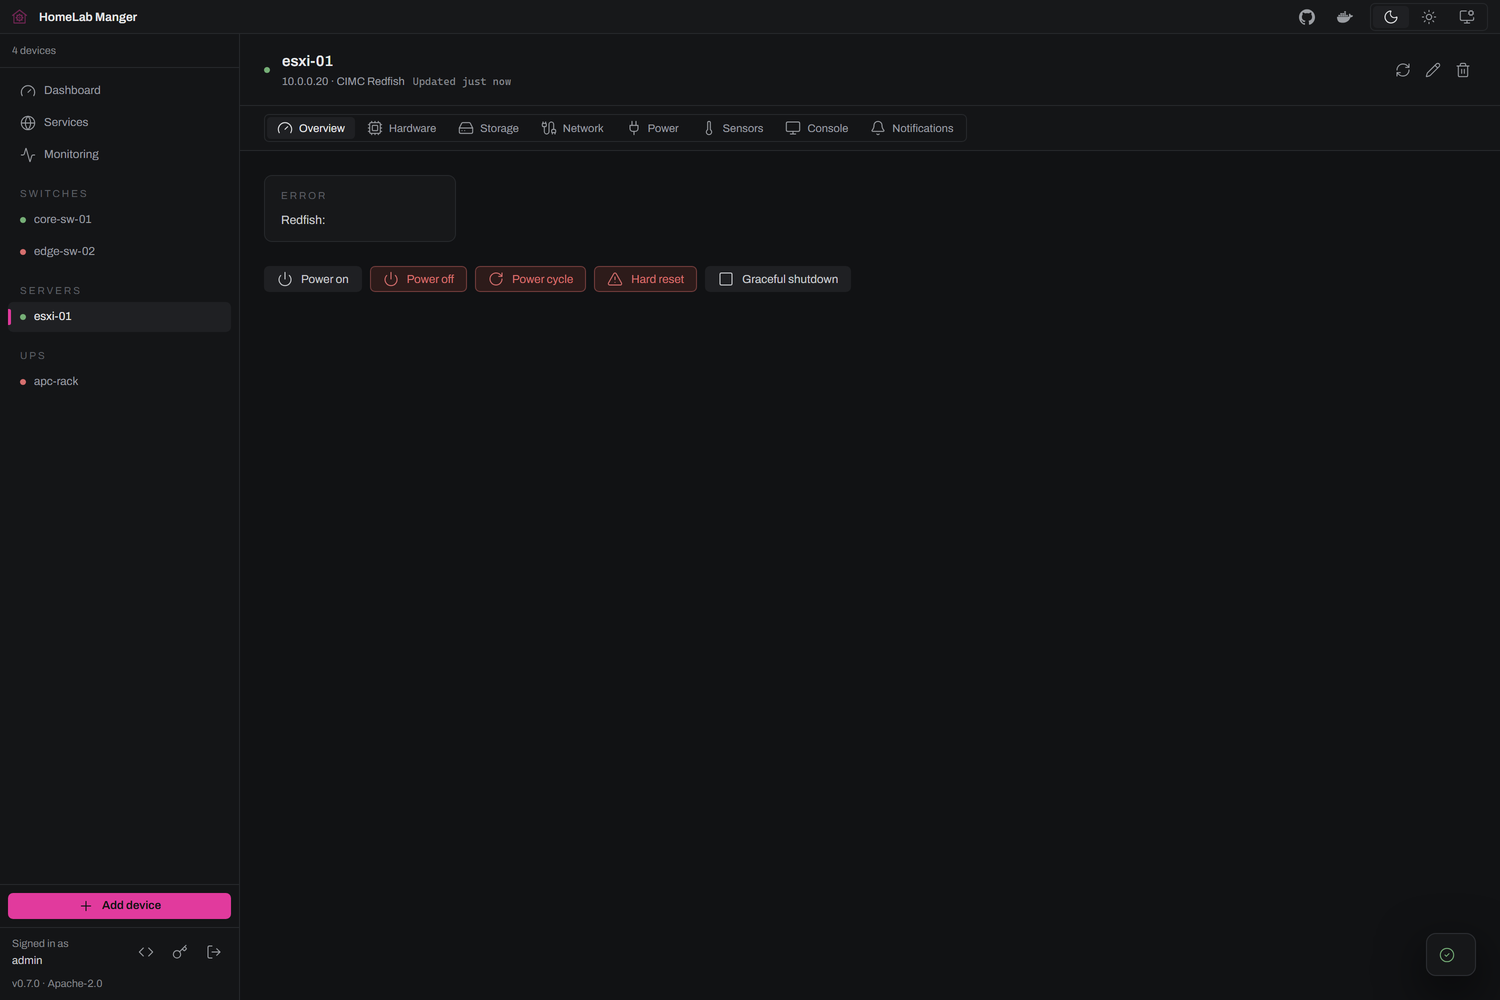
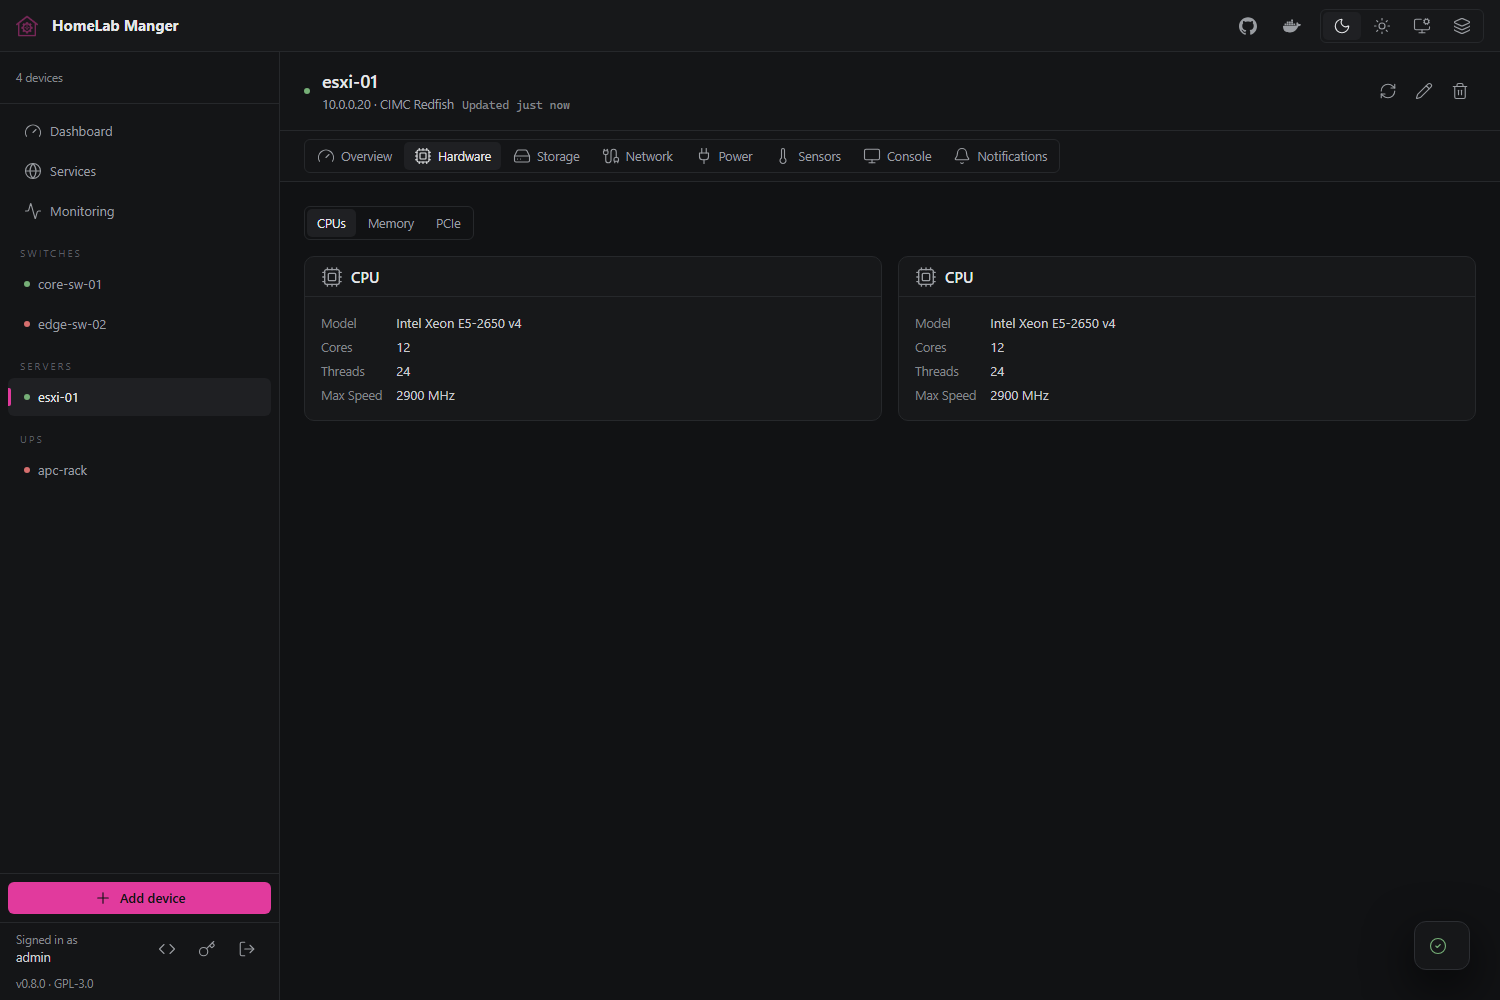
Generate the whole screenshot set from one command
§17.3 wants pictures generated by the app, 1400-1600px wide at 100% scale,
under 500KB. shots.py rendered at device_scale_factor=2, so every picture came
out 3000px and had to be downscaled by a hand step that lived nowhere, and the
five the README references had to be renamed by hand as well. It now renders at
1x and copies those five to their plain names, so what the script writes is what
gets committed. The rest of the set - every screen in both themes - is written
beside them and gitignored, as the pair of eyes before a release.

Two pictures were not of the app working. server.png showed an error card on a
tab with nothing on it; services.png was an empty state under two "not
configured yet" warnings, because the Services page reads its content live from
NPM and Portainer and the fixture could reach neither. docs/demo_stubs.py
stands in for both, so the page renders services grouped by Docker host with
their container chips and the import section beside them. server.png is now the
Hardware tab, and its alt text follows it in README.md and docs/DOCKERHUB.md.

The stub has to be a ThreadingHTTPServer speaking HTTP/1.1: the page fans out
to the proxy-host list and every Portainer environment at once, and on a
single-threaded 1.0 server httpx intermittently picked a just-closed connection
and the page rendered "Could not list NPM proxy hosts" in about half the runs.

The fixture also emitted poe portIndex as an int while both adapters emit a
[…]

diff --git a/docs/demo_stubs.py b/docs/demo_stubs.py
@@ -1,0 +1,162 @@
+"""Stand-in Nginx Proxy Manager and Portainer, for the screenshot fixture.
+
+The Services page is the one screen that cannot be photographed from the
+database alone: the "In NPM - not managed here" section and the Docker chips on
+each row are read live from those two tools, and with neither reachable the
+page renders an empty state and a pair of "not configured yet" warnings. A
+picture of that is a picture of an install nobody has finished, which §17.3 of
+the style guide asks us not to ship.
+
+So `docs/shots.py` starts this, and `docs/seed-demo.py` points the npm and
+portainer integration rows at it. It answers only the handful of reads the
+Services page makes, on one port, because the two APIs do not collide:
+
+    NPM        POST /api/tokens              -> a bearer token
+               GET  /api/nginx/proxy-hosts   -> the proxy hosts
+    Portainer  GET  /api/endpoints           -> the environments
+               GET  /api/endpoints/{id}/docker/containers/json
+
+Nothing here is ever written to, and nothing here runs outside the fixture.
+Keep the shapes in step with what services_npm.py and services_portainer.py
+read; a field they need and this does not return shows up as an empty column
+in the picture rather than as an error.
+"""
+import json
+import threading
+from http.server import BaseHTTPRequestHandler, ThreadingHTTPServer
+
+PORT = 8212
+BASE_URL = f"http://127.0.0.1:{PORT}"
+
+# Two of these (jellyfin, paperless) are also seeded as managed services, so the
+# page can match them by proxy-host id; the rest are what the sync section
+# offers to import. `nzbget` is deliberately HTTP-only (certificate_id 0) so the
+# section shows a host without a certificate too.
+_PROXY_HOSTS = [
+    {"id": 11, "domain_names": ["jellyfin.example.net"], "forward_scheme": "http",
+     "forward_host": "10.0.0.41", "forward_port": 8096, "certificate_id": 31,
+     "enabled": True, "allow_websocket_upgrade": True, "block_exploits": True,
+     "caching_enabled": False, "ssl_forced": True, "http2_support": True,
+     "hsts_enabled": False, "hsts_subdomains": False},
+    {"id": 12, "domain_names": ["paperless.example.net"], "forward_scheme": "http",
+     "forward_host": "10.0.0.42", "forward_port": 8000, "certificate_id": 32,
+     "enabled": True, "allow_websocket_upgrade": True, "block_exploits": True,
+     "caching_enabled": False, "ssl_forced": True, "http2_support": True,
+     "hsts_enabled": False, "hsts_subdomains": False},
+    {"id": 13, "domain_names": ["grafana.example.net"], "forward_scheme": "http",
+     "forward_host": "10.0.0.43", "forward_port": 3000, "certificate_id": 33,
+     "enabled": True, "allow_websocket_upgrade": True, "block_exploits": True,
+     "caching_enabled": False, "ssl_forced": True, "http2_support": True,
+     "hsts_enabled": False, "hsts_subdomains": False},
+    {"id": 14, "domain_names": ["nzbget.example.net"], "forward_scheme": "http",
+     "forward_host": "10.0.0.44", "forward_port": 6789, "certificate_id": 0,
+     "enabled": True, "allow_websocket_upgrade": False, "block_exploits": True,
+     "caching_enabled": False, "ssl_forced": False, "http2_support": True,
+     "hsts_enabled": False, "hsts_subdomains": False},
+    {"id": 15, "domain_names": ["vaultwarden.example.net"], "forward_scheme": "http",
+     "forward_host": "10.0.0.45", "forward_port": 8080, "certificate_id": 35,
+     "enabled": True, "allow_websocket_upgrade": True, "block_exploits": True,
+     "caching_enabled": False, "ssl_forced": True, "http2_support": True,
+     "hsts_enabled": False, "hsts_subdomains": False},
+]
+
+# Two environments, because the real thing usually has more than one and the
+# host-IP-per-endpoint logic is worth showing. The agent endpoint's URL is what
+# services_portainer.endpoint_host_ip() reads the host IP out of.
+_ENDPOINTS = [
+    {"Id": 1, "Name": "docker-01", "URL": "unix:///var/run/docker.sock", "Status": 1},
+    {"Id": 2, "Name": "docker-02", "URL": "tcp://10.0.0.42:9001", "Status": 1},
+]
+
+_CONTAINERS = {
+    1: [
+        ("jellyfin", "running", 8096), ("grafana", "running", 3000),
+        ("nzbget", "running", 6789), ("watchtower", "running", None),
+    ],
+    2: [
+        ("paperless", "running", 8000), ("vaultwarden", "running", 8080),
+        ("redis", "running", None), ("watchtower", "exited", None),
+    ],
+}
+
+
+def _container(name: str, state: str, port: int | None, host_ip: str) -> dict:
+    return {
+        "Id": f"{abs(hash(name)) % (16 ** 12):012x}",
+        "Names": [f"/{name}"],
+        "Image": f"ghcr.io/demo/{name}:latest",
+        "State": state,
+        "Status": "Up 6 days" if state == "running" else "Exited (0) 2 days ago",
+        "Ports": ([{"IP": "0.0.0.0", "PrivatePort": port, "PublicPort": port,
+                    "Type": "tcp"}] if port else []),
+        "NetworkSettings": {"Networks": {"bridge": {"IPAddress": host_ip}}},
+    }
+
+
+class _Handler(BaseHTTPRequestHandler):
+    # HTTP/1.1, not the BaseHTTPRequestHandler default of 1.0. On 1.0 the
+    # server closes the socket after every response, and httpx - which is an
+    # HTTP/1.1 client with a connection pool - intermittently picked a
+    # connection the server had just closed and surfaced it as an empty
+    # ConnectError, so the Services page rendered "Could not list NPM proxy
+    # hosts" in about one run out of two. Every response here sends a
+    # Content-Length, which is what 1.1 requires to keep a connection alive.
+    protocol_version = "HTTP/1.1"
+
+    def _send(self, payload, status=200):
+        body = json.dumps(payload).encode()
+        self.send_response(status)
+        self.send_header("Content-Type", "application/json")
+        self.send_header("Content-Length", str(len(body)))
+        self.end_headers()
+        self.wfile.write(body)
+
+    def do_POST(self):
+        if self.path.startswith("/api/tokens"):
+            self._send({"token": "demo-token", "expires": "2099-01-01T00:00:00.000Z"})
+        else:
+            self._send({"error": {"message": "not stubbed"}}, 404)
+
+    def do_GET(self):
+        path = self.path.split("?", 1)[0]
+        if path == "/api/nginx/proxy-hosts":
+            self._send(_PROXY_HOSTS)
+        elif path == "/api/nginx/certificates":
+            self._send([{"id": h["certificate_id"], "provider": "letsencrypt",
+                         "nice_name": h["domain_names"][0],
+                         "domain_names": h["domain_names"]}
+                        for h in _PROXY_HOSTS if h["certificate_id"]])
+        elif path == "/api/endpoints":
+            self._send(_ENDPOINTS)
+        elif path.startswith("/api/endpoints/") and path.endswith("/docker/containers/json"):
+            try:
+                eid = int(path.split("/")[3])
+            except (IndexError, ValueError):
+                self._send([], 404); return
+            host = "10.0.0.41" if eid == 1 else "10.0.0.42"
+            self._send([_container(n, s, p, host) for n, s, p in _CONTAINERS.get(eid, [])])
+        else:
+            self._send({"error": {"message": "not stubbed"}}, 404)
+
+    def log_message(self, *args):        # the fixture's log is noisy enough
+        pass
+
+
+def serve(port: int = PORT) -> ThreadingHTTPServer:
+    """Start the stub on a daemon thread and return the server.
+
+    Threading, not the plain HTTPServer: the Services page fans out to the
+    proxy-host list and to every Portainer environment at once, and a
+    single-threaded server leaves the rest of them queued behind the first
+    until the client's connect timeout fires.
+    """
+    srv = ThreadingHTTPServer(("127.0.0.1", port), _Handler)
+    srv.daemon_threads = True
+    threading.Thread(target=srv.serve_forever, daemon=True).start()
+    return srv
+
+
+if __name__ == "__main__":
+    serve()
+    print(f"demo stubs on {BASE_URL} - ctrl-c to stop")
+    threading.Event().wait()

diff --git a/docs/seed-demo.py b/docs/seed-demo.py
@@ -13,7 +13,7 @@ import os, json, datetime
 os.environ['DB_PATH'] = os.path.join(os.getcwd(), 'shots.db')
 os.environ['ADMIN_PASSWORD'] = 'smoketest123'
 from backend.database import init_db, SessionLocal
-from backend.models import Device, DeviceCache, DeviceMetric
+from backend.models import Device, DeviceCache, DeviceMetric, Integration, Service
 from backend.timeutil import utcnow
 init_db()
 db = SessionLocal()
@@ -35,8 +35,13 @@ add("core-sw-01", "10.0.0.2", "dlink", "switch", {
     "status": {"online": True, "sysName": "core-sw-01", "sysDescr": "D-Link DGS-3120-48PC",
                "uptime": "42 days, 3:14", "firmware": "R4.00.B021", "ipOrigin": "manual"},
     "ports": ports,
-    "poe": {"ports": [{"key": f"poe-{i}", "portIndex": i, "powerClass": 3 if i % 4 == 0 else None,
-                       "detectionStatus": "delivering" if i % 4 == 0 else "disabled",
+    "poe": {"ports": [{"key": f"poe-{i}",
+                       # A string, like both adapters emit - the frontend
+                       # looks PoE up by String(portIndex) and an int here
+                       # silently renders every PoE state as absent.
+                       "portIndex": str(i), "powerClass": 3 if i % 4 == 0 else None,
+                       "detectionStatus": ("fault" if i in (16, 34) else
+                                          "delivering" if i % 4 == 0 else "disabled"),
                        "powerWatts": 6.4 if i % 4 == 0 else None, "adminEnabled": True,
                        "maxPowerMilliwatts": 30000} for i in range(1, 49)],
             "totalPowerWatts": 370, "consumptionWatts": 76.8},
@@ -105,5 +110,40 @@ for h in range(24 * 60 // 5):
                         ("runtime_sec", 2820 if h > 170 or h < 140 else 1500 + h),
                         ("input_voltage", 232 + random.uniform(-3, 3))]:
         db.add(DeviceMetric(device_id=ups.id, metric=metric, value=round(val, 2), ts=ts))
+
+# ── Services page ──────────────────────────────────────────────────────────
+# The integrations point at docs/demo_stubs.py, which docs/shots.py starts.
+# Without them the Services page is two "not configured yet" warnings over an
+# empty state, which is not a picture of the app working (§17.3).
+from docs.demo_stubs import BASE_URL as _STUB
+
+for name, cfg in [
+    ("npm", {"base_url": _STUB, "email": "admin@example.net",
+             "password": "demo", "le_email": "admin@example.net"}),
+    ("namecheap", {"api_user": "demo", "api_key": "demo", "username": "demo",
+                   "client_ip": "203.0.113.10", "domain": "example.net"}),
+    ("portainer", {"base_url": _STUB, "api_key": "demo"}),
+]:
+    db.add(Integration(name=name, config=cfg))
+
+# Two of the stub's five proxy hosts are managed here; the other three are what
+# the sync section offers to import.
+def svc(name, sub, host, port, hid, container, endpoint):
+    db.add(Service(
+        name=name, subdomain=sub, domain="example.net",
+        forward_scheme="http", forward_host=host, forward_port=port,
+        websockets=True, block_exploits=True, caching_enabled=False,
+        ssl_forced=True, http2_support=True, hsts_enabled=False,
+        hsts_subdomains=False,
+        portainer_container=container, portainer_endpoint_id=endpoint,
+        npm_proxy_host_id=hid, npm_certificate_id=hid + 20,
+        dns_record_type="CNAME", dns_record_target="example.net",
+        dns_status="ok", npm_status="ok", cert_status="ok", state="active",
+        created_at=now))
+
+svc("Jellyfin",  "jellyfin",  "10.0.0.41", 8096, 11, "jellyfin",  1)
+svc("Paperless", "paperless", "10.0.0.42", 8000, 12, "paperless", 2)
+
 db.commit()
+
 print("seeded:", db.query(Device).count(), "devices,", db.query(DeviceMetric).count(), "metric samples")

diff --git a/docs/shots.py b/docs/shots.py
@@ -9,15 +9,23 @@ Usage, from the repository root:
     python docs/seed-demo.py          # writes shots.db with demo devices
     python docs/shots.py docs/images  # writes the pictures
 
+Delete shots.db first if it already exists: seed-demo.py appends rather than
+replacing, so a second run on the same file gives you eight devices.
+
 The database it reads is a throwaway fixture. It never touches /data.
 """
-import os, sys, threading, time, pathlib
+import os, sys, shutil, threading, time, pathlib
 root = str(pathlib.Path(__file__).resolve().parent.parent); os.chdir(root); sys.path.insert(0, root)
 os.environ['DB_PATH'] = os.path.join(root, 'shots.db')
 os.environ['ADMIN_PASSWORD'] = 'smoketest123'
 os.environ['POLL_INTERVAL'] = '100000'          # keep the poller off our seeded cache
 import uvicorn
 from playwright.sync_api import sync_playwright
+from docs.demo_stubs import serve as serve_demo_stubs
+
+# Stand-in NPM and Portainer, so the Services page has something real on it.
+# seed-demo.py points the integration rows at this.
+serve_demo_stubs()
 
 srv = uvicorn.Server(uvicorn.Config('backend.main:app', host='127.0.0.1', port=8211, log_level='error'))
 threading.Thread(target=srv.run, daemon=True).start()
@@ -28,7 +36,10 @@ errors = []
 
 with sync_playwright() as pw:
     b = pw.chromium.launch()
-    ctx = b.new_context(viewport={'width': 1500, 'height': 1000}, device_scale_factor=2)
+    # §17.3: 1400-1600 px wide at 100 % scale. Render at 1x so what this
+    # script writes is exactly what gets committed — a hand-downscale between
+    # here and docs/images is a step that goes stale without anyone noticing.
+    ctx = b.new_context(viewport={'width': 1500, 'height': 1000}, device_scale_factor=1)
     pg = ctx.new_page()
     pg.on('console', lambda m: errors.append(f'{m.type}: {m.text}') if m.type == 'error' else None)
     pg.on('pageerror', lambda e: errors.append(f'pageerror: {e}'))
@@ -115,6 +126,23 @@ with sync_playwright() as pw:
     tab('Notifications'); pg.screenshot(path=out / '11c-notifications.png')
 
     b.close()
+
+# The pictures README.md and docs/DOCKERHUB.md point at, under the names they
+# use. Copied from the numbered set above rather than shot again, so the
+# README's picture and the walkthrough's picture can never disagree.
+# Each one is a screen with real content on it: a tab showing an error card or
+# an empty table is not a picture of the app working (§17.3).
+README_SHOTS = {
+    'dashboard.png':    '01-dashboard.png',
+    'ports-switch.png': '03-switch-ports.png',
+    'server.png':       '07-server-hardware.png',
+    'services.png':     '12-services.png',
+    'ups-graphs.png':   '11-ups-graphs.png',
+}
+for name, src in README_SHOTS.items():
+    shutil.copyfile(out / src, out / name)
+    size = (out / name).stat().st_size / 1024
+    print(f'  {name:18} {size:6.0f} KB' + ('   OVER 500 KB (§17.3)' if size > 500 else ''))
 
 srv.should_exit = True
 print('shots written to', out)

diff --git a/README.md b/README.md
@@ -101,7 +101,7 @@ driven through its web interface, because neither exposes them any other way.
 
 ## Servers and BMCs
 
-<img align="right" width="380" src="docs/images/server.png" alt="A server's Overview tab: tabs for hardware, storage, network, power, sensors and console, over cards for model, serial, power state and memory, and a row of power buttons">
+<img align="right" width="380" src="docs/images/server.png" alt="A server's Hardware tab: the CPUs pane with a card per processor giving model, core count, thread count and clock, beside panes for memory and PCIe, under tabs for storage, network, power, sensors and console">
 
 HP iLO, Dell iDRAC, Huawei iBMC and Cisco UCS C-series. Inventory down to the
 DIMM, live sensors and per-PSU wattage, power actions, and a KVM launch that
